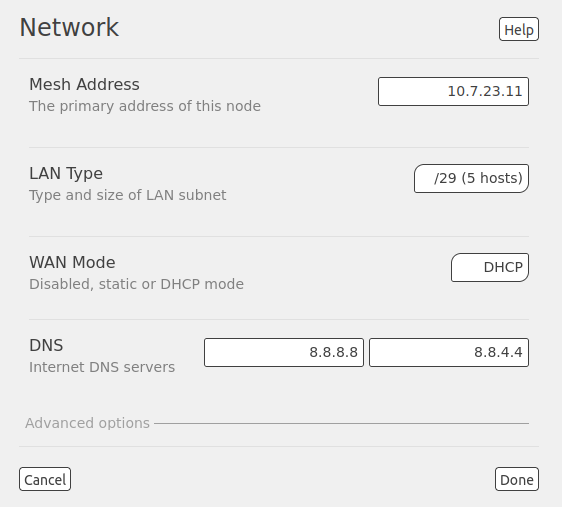
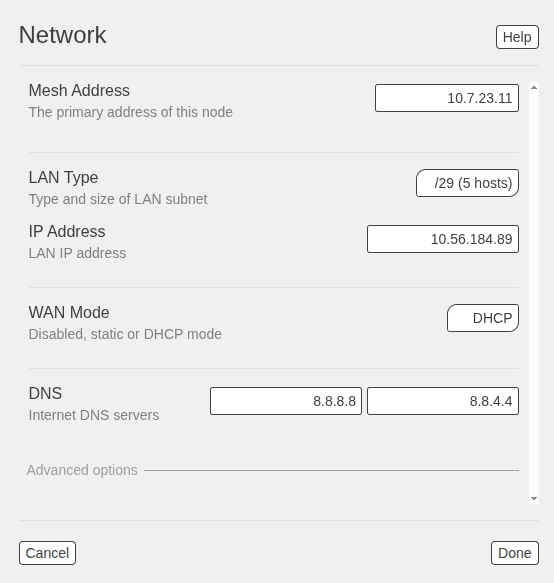
update lan ip selection (#587)

diff --git a/arednGettingStarted/node_admin.rst b/arednGettingStarted/node_admin.rst
@@ -261,14 +261,16 @@ Highlight and click the section displaying your node's network settings. This di
 Mesh address
 ++++++++++++
 
-The **Mesh Address** is the primary IP address of your node. The AREDN® firmware has been designed to simplify the process of configuring network interfaces. Network values are automatically calculated based on the unique :abbr:`MAC (Media Access Control)` addresses on your node. Normally you will not need to change this, so keep this value unless you fully understand how the mesh works and why the defaults may not be suitable for your situation.
+The **Mesh Address** is the primary IP address of your node. The AREDN® firmware has been designed to simplify the process of configuring network interfaces. Network values are automatically calculated based on the unique :abbr:`MAC (Media Access Control)` addresses on your node. Normally you will not need to change this, so keep this value unless you fully understand why the default may not be suitable for your situation.
 
 LAN
 +++
 
-The **LAN Type** allows you to set the number of devices your node will be able to host on its Local Area Network (LAN). Click in the field at the right to see the dropdown list of options for the size of your node's LAN. The default value is ``5 hosts``. It is important not to select a size that is larger than necessary because the chance of an IP address conflict on the mesh increases with the size of the subnet. The LAN subnet parameters are automatically calculated and depend on the IP address of the *Mesh* interface. If a conflict does occur it can be fixed by changing the *Mesh* IP address above.
+The **LAN Type** allows you to set the number of devices your node will be able to host on its Local Area Network (LAN). Click in the field at the right to see a dropdown list of options for the size of your node's LAN. The default value is ``5 hosts``. It is important not to select a size that is larger than necessary because the chance of an IP address conflict on the mesh increases with the size of the subnet.
 
-The most common configuration is to have the LAN address space managed automatically for you. In this case the LAN shares the same address space as the mesh at large, and every host on the LAN has direct access to and from the mesh. You have the option of selecting the size of the LAN subnet which can accommodate either 1, 5, 13, or 29 LAN hosts. A single host subnet can be useful for either a single server or a separate network router using its own NAT which is capable of more advanced routing functions than those available on a mesh node. This design minimizes the amount of manual effort needed to provide services to the mesh, since many services do not work well if they are hosted behind a :abbr:`NAT (Network Address Translation)` router.
+The LAN **IP Address** is automatically generated based on the *Mesh* address. Normally you will not need to change this address, so keep this value unless you fully understand why the default may not be suitable for your situation. If required, the LAN IP address can be changed by editing this field.
+
+The most common configuration is to have the LAN address space managed automatically for you. In this case the LAN shares the same address space as the mesh at large, and every host on the LAN has direct access to and from the mesh. You have the option of selecting the size of the LAN subnet which can accommodate either 1, 5, 13, or 29 LAN hosts. A single host subnet can be useful for either a single server or a separate network router using its own NAT which is capable of more advanced routing functions than those available on a mesh node. This minimizes the amount of manual effort needed to provide services to the mesh, since many services do not work well if they are hosted behind a :abbr:`NAT (Network Address Translation)` router.
 
 When you connect a device to your node's LAN, not only will it have an IP address in the LAN IP address range, but it is best practice for LAN device to obtain its DNS Server information automatically from the node. Be aware that if a LAN device does not use the DNS Server entry provided by the node to which it is connected, then that device will be unable to resolve hostnames on the mesh network. Also, hard-coding a device's DNS Server entry with the mesh node's IP address could result in unexpected failures if that IP address changes.
 
@@ -286,7 +288,7 @@ In ``NAT`` mode you are responsible for managing the IP address space of your no
 44Net Mode
 ^^^^^^^^^^
 
-Another choice for *LAN Type* is ``44Net`` and this mode allows you to use IP addresses from the `AMPRnet <https://www.ardc.net/44net/>`_ address space (44.0.0.0/9 to 44.128.0.0/10).
+Yet another choice for *LAN Type* is ``44Net`` and this mode allows you to use IP addresses from the `AMPRnet <https://www.ardc.net/44net/>`_ address space (44.0.0.0/9 to 44.128.0.0/10).
 
 .. image:: _images/admin-network-44net.png
   :alt: Admin Network - 44Net
